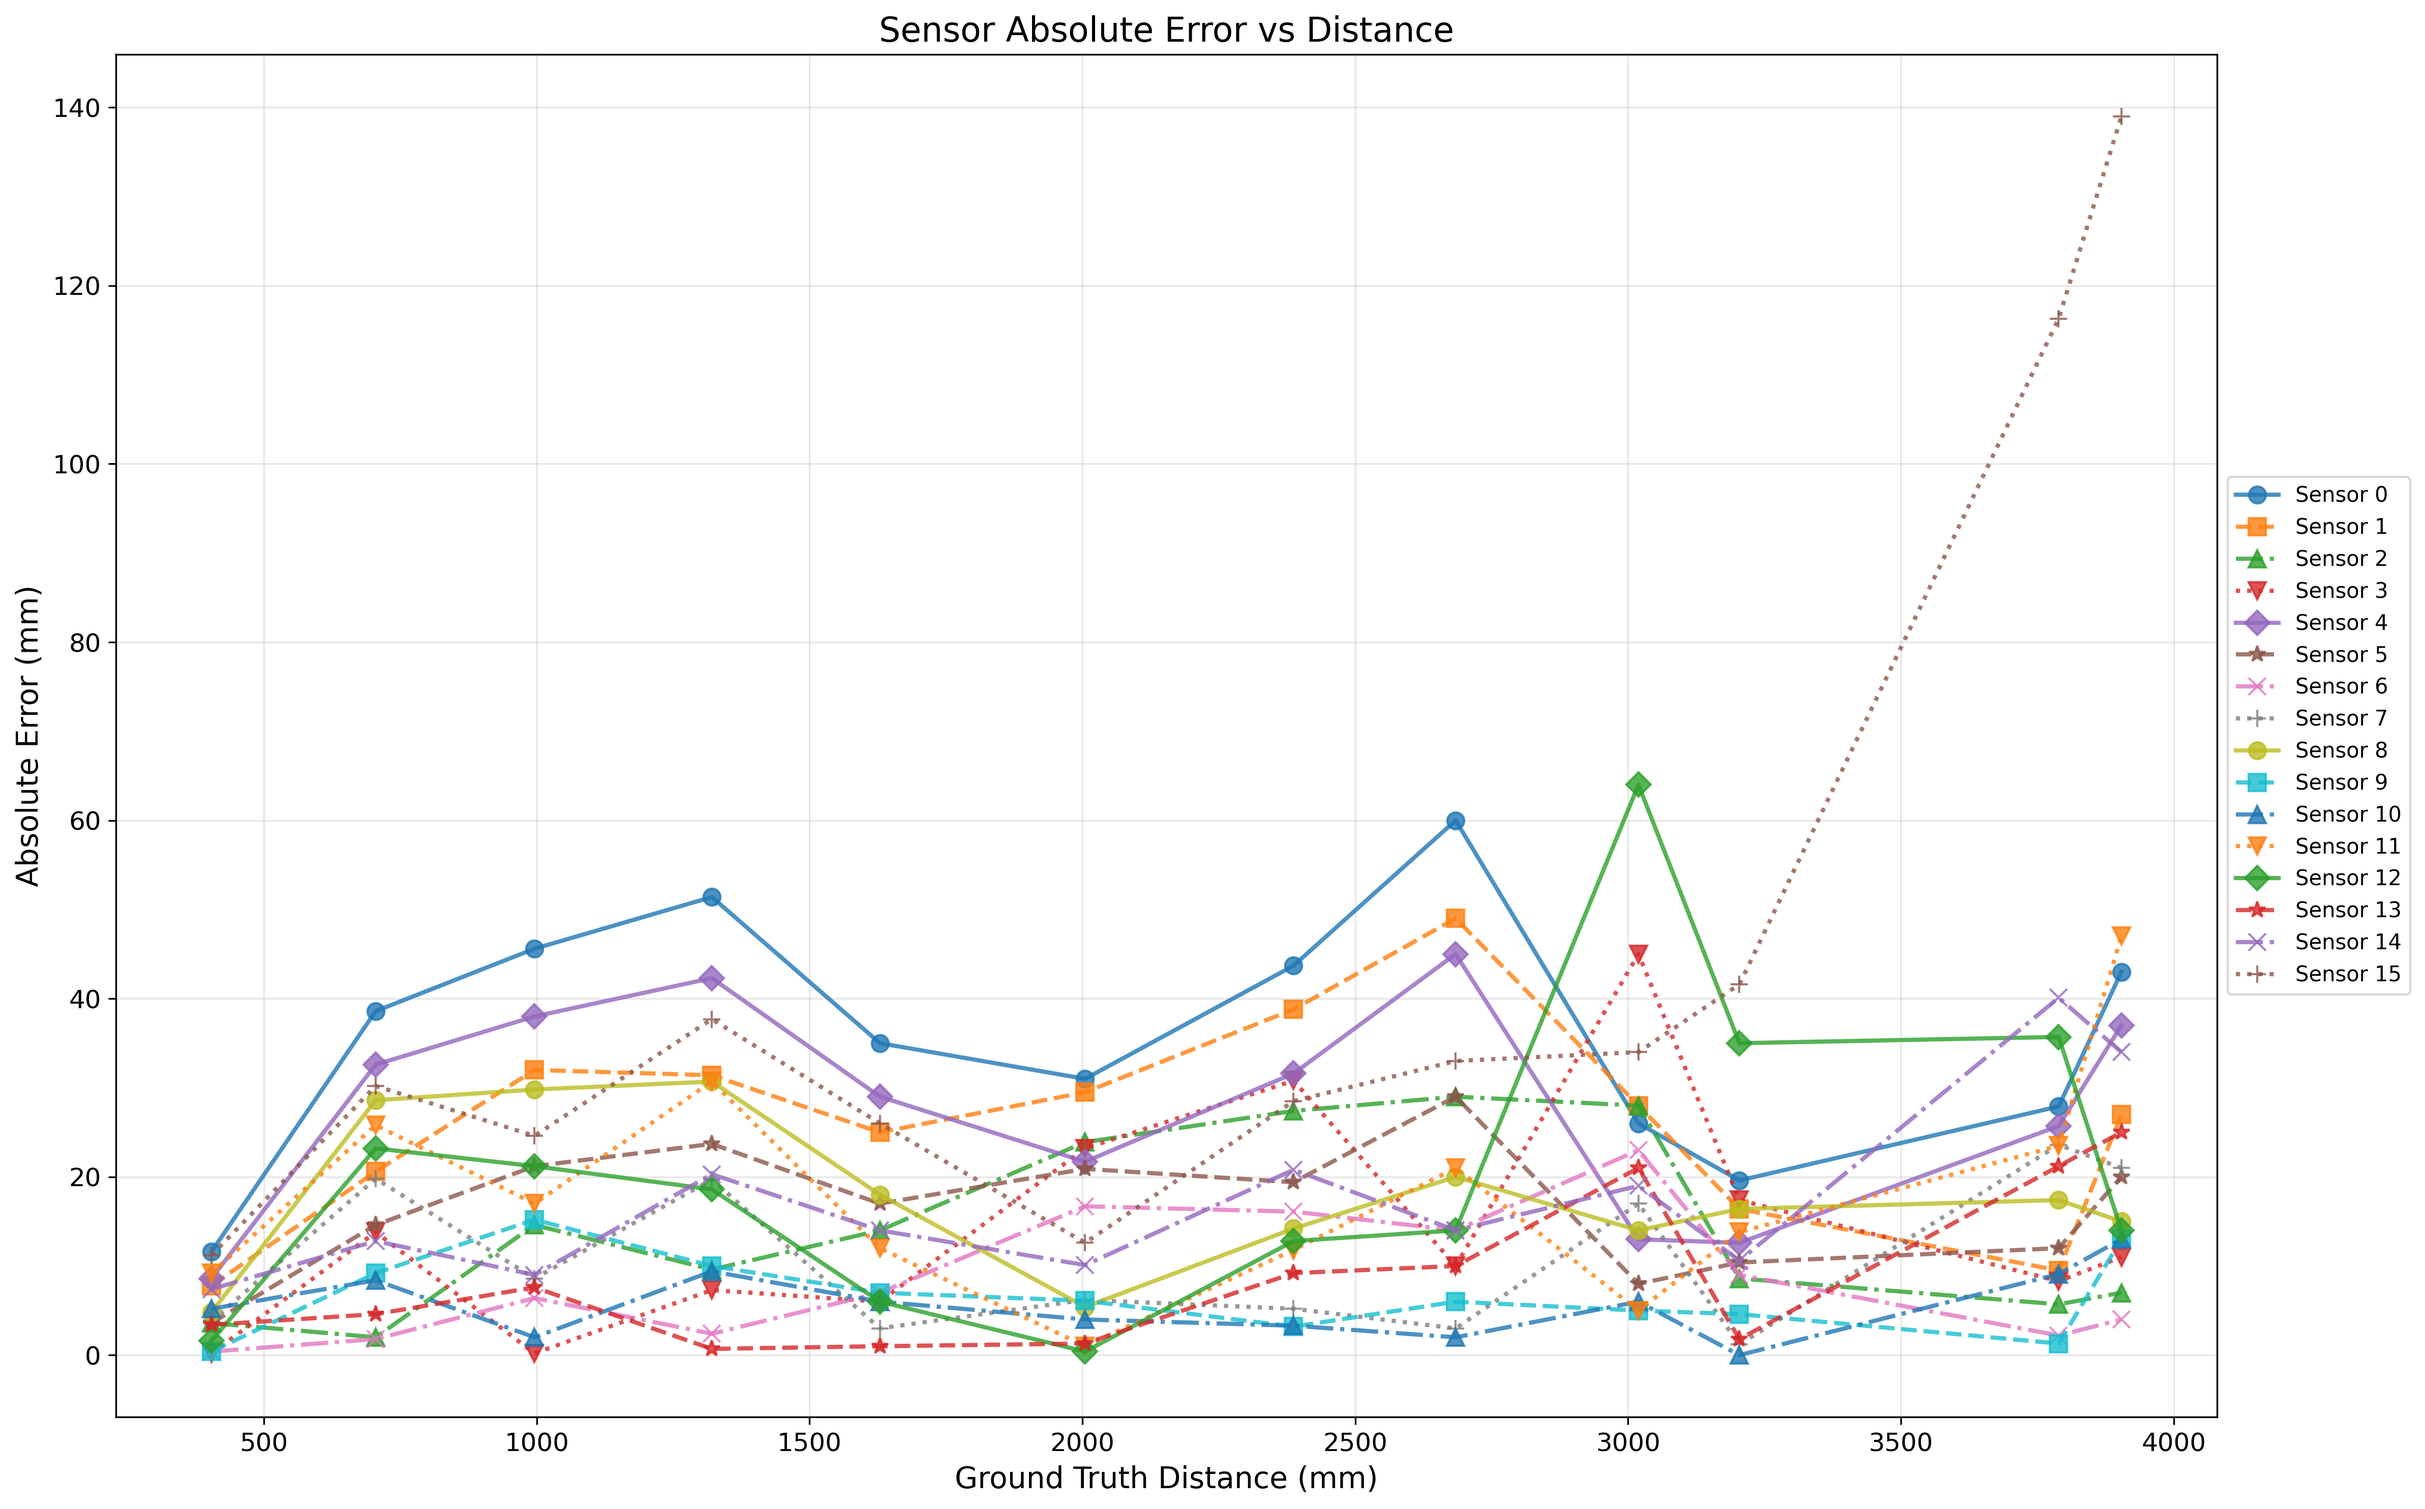
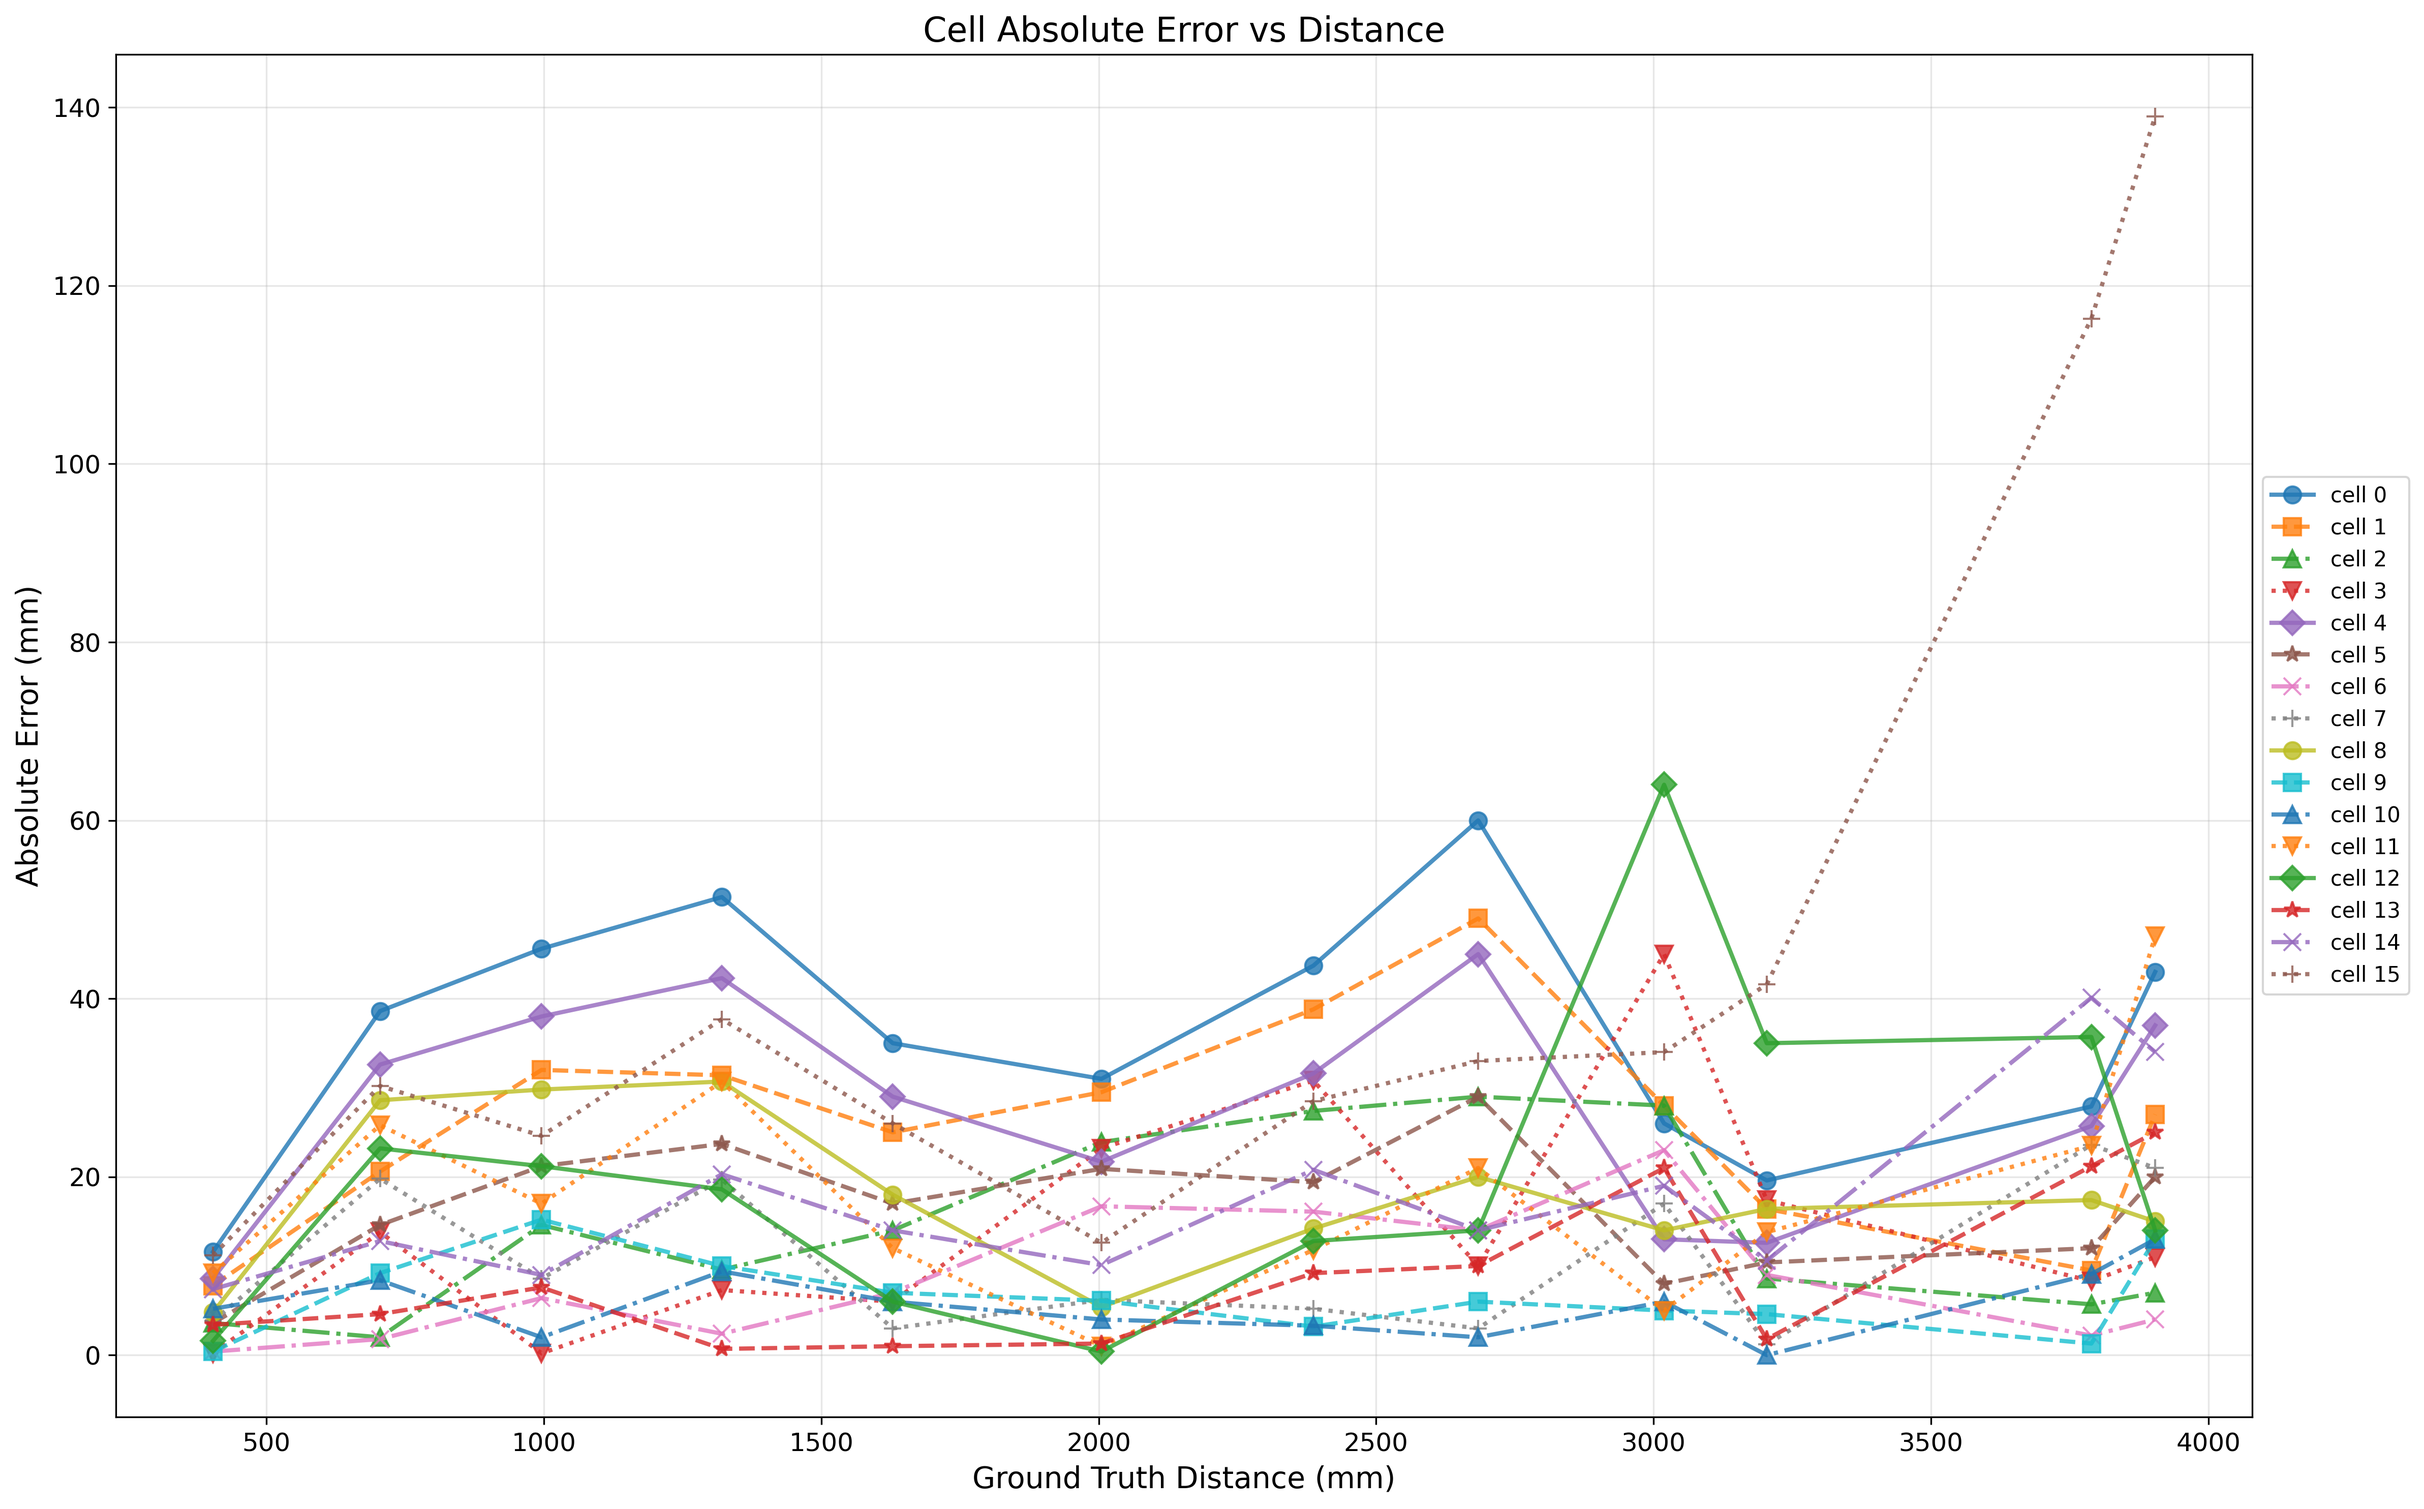
updated names for graph

diff --git a/scripts/tof_error_analysis.py b/scripts/tof_error_analysis.py
@@ -164,7 +164,7 @@ def plot_error_vs_distance(data, output_path, grid_size=(4, 4)):
     
     # Plot each sensor with a unique style combination
     for i in range(num_sensors):
-        sensor_label = f"Sensor {i}"  # Use the sensor ID (0-15)
+        sensor_label = f"cell {i}"  # Use the sensor ID (0-15)
         line_style = line_styles[i % len(line_styles)]
         marker = markers[i % len(markers)]
         plt.plot(ground_truths, abs_errors[:, i], 
@@ -174,7 +174,7 @@ def plot_error_vs_distance(data, output_path, grid_size=(4, 4)):
     
     plt.xlabel('Ground Truth Distance (mm)', fontsize=14)
     plt.ylabel('Absolute Error (mm)', fontsize=14)
-    plt.title('Sensor Absolute Error vs Distance', fontsize=16)
+    plt.title('Cell Absolute Error vs Distance', fontsize=16)
     plt.grid(True, alpha=0.3)
     plt.xticks(fontsize=12)
     plt.yticks(fontsize=12)
@@ -242,12 +242,12 @@ def main():
         f.write(f"Number of distances: {len(data)}\n")
         f.write(f"Distance range: {min(data.keys())}mm to {max(data.keys())}mm\n\n")
         
-        f.write("Most accurate sensors (by RMSE):\n")
+        f.write("Most accurate cells (by RMSE):\n")
         sorted_indices = np.argsort(results['rmse'])
         for i, idx in enumerate(sorted_indices[:3]):
             f.write(f"  {i+1}. Sensor {idx}: RMSE = {results['rmse'][idx]:.2f}mm\n")
         
-        f.write("\nLeast accurate sensors (by RMSE):\n")
+        f.write("\nLeast accurate cells (by RMSE):\n")
         for i, idx in enumerate(sorted_indices[-3:]):
             f.write(f"  {i+1}. Sensor {idx}: RMSE = {results['rmse'][idx]:.2f}mm\n")
         
@@ -265,20 +265,20 @@ def main():
     
     # 2. Weights grid 
     weights_grid_path = os.path.join(args.output, "sensor_weights_grid.png")
-    plot_error_grid(results['weights'], 'Sensor Weights', weights_grid_path, 'RdYlGn')
+    plot_error_grid(results['weights'], 'Cell Weights', weights_grid_path, 'RdYlGn')
     
     # 3. Error vs distance plot
     error_vs_distance_path = os.path.join(args.output, "sensor_error_vs_distance.png")
     plot_error_vs_distance(data, error_vs_distance_path)
     
     # Print summary
-    print("\nMost accurate sensors (by RMSE):")
+    print("\nMost accurate cell (by RMSE):")
     for i, idx in enumerate(sorted_indices[:3]):
-        print(f"  {i+1}. Sensor {idx}: RMSE = {results['rmse'][idx]:.2f}mm")
+        print(f"  {i+1}. Cell {idx}: RMSE = {results['rmse'][idx]:.2f}mm")
     
-    print("\nLeast accurate sensors (by RMSE):")
+    print("\nLeast accurate cell (by RMSE):")
     for i, idx in enumerate(sorted_indices[-3:]):
-        print(f"  {i+1}. Sensor {idx}: RMSE = {results['rmse'][idx]:.2f}mm")
+        print(f"  {i+1}. Cell {idx}: RMSE = {results['rmse'][idx]:.2f}mm")
     
     print(f"\nAnalysis complete! Results saved to {args.output}/")
 
